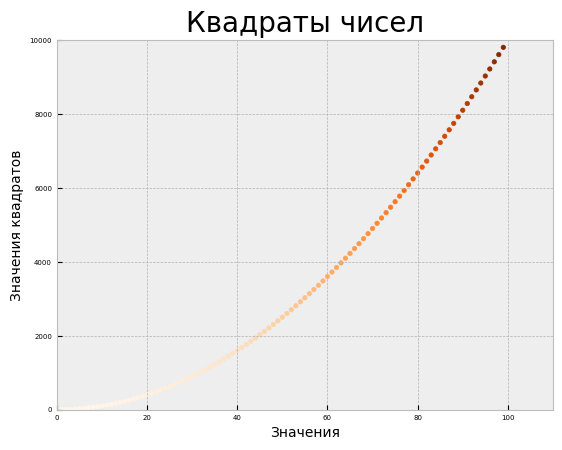
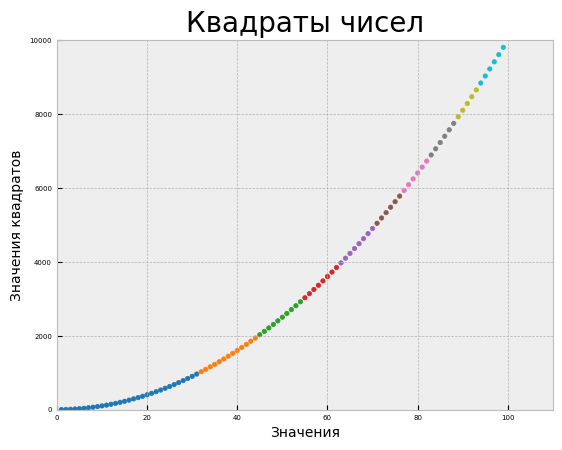
point squares 1

diff --git a/squares/points_squeres.py b/squares/points_squeres.py
@@ -5,7 +5,7 @@ squares = [x**2 for x in input_values]
 
 plt.style.use('bmh')
 fig, ax = plt.subplots()
-ax.scatter(input_values, squares, c=squares, cmap=plt.cm.Oranges,  s=10)
+ax.scatter(input_values, squares, c=squares, cmap=plt.cm.tab10, s=10)
 
 ax.set_title("Квадраты чисел", fontsize=20)
 ax.set_xlabel("Значения", fontsize=10)
